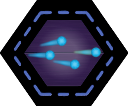
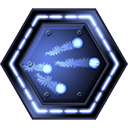
Added in zaks art and changed some archetypes to fit. Havnt changed level events grinders to be right size yet, but most other things are working

diff --git a/Dev/StaticSheepNeoBuildSystem/game/SheepEngine/types/weapons/WShotgun.cpp b/Dev/StaticSheepNeoBuildSystem/game/SheepEngine/types/weapons/WShotgun.cpp
@@ -24,6 +24,7 @@ namespace Framework
     damage = 20;
     knockback = 600;
     semi = true;
+    explosive_ = false;
   }
 
   Shotgun::~Shotgun()
@@ -64,7 +65,13 @@ namespace Framework
         part->direction.m_startMin = rotation * part->direction.m_startMin;
         part->direction.m_startMax = rotation * part->direction.m_startMax;
 
-        bullet->GetComponent<Bullet_Default>(eBullet_Default)->damage = damage;
+        if (explosive_)
+        {
+          bullet->GetComponent<Bullet_Default>(eBullet_Default)->damage = damage + 20;
+          bullet->GetComponent<Bullet_Default>(eBullet_Default)->explosive_ = true;
+        }
+        else
+          bullet->GetComponent<Bullet_Default>(eBullet_Default)->damage = damage;
         BT = bullet->GetComponent<Transform>(eTransform);
         bulletC = bullet->GetComponent <CircleCollider>(eCircleCollider);
         bulletC->SetBodyCollisionGroup(player->archetype);
@@ -79,7 +86,13 @@ namespace Framework
         bullet->GetComponent<ParticleCircleEmitter>(eParticleCircleEmitter)->spawning = false;
         bullet->GetComponent<ParticleCircleEmitter>(eParticleCircleEmitter)->timedSpawning = false;
 
-        bullet->GetComponent<Bullet_Default>(eBullet_Default)->damage = damage;
+        if (explosive_)
+        {
+          bullet->GetComponent<Bullet_Default>(eBullet_Default)->damage = damage + 20;
+          bullet->GetComponent<Bullet_Default>(eBullet_Default)->explosive_ = true;
+        }
+        else
+          bullet->GetComponent<Bullet_Default>(eBullet_Default)->damage = damage;
         BT = bullet->GetComponent<Transform>(eTransform);
         bulletC = bullet->GetComponent <CircleCollider>(eCircleCollider);
         bulletC->SetBodyCollisionGroup(player->archetype);

diff --git a/Dev/StaticSheepNeoBuildSystem/game/SheepEngine/Components/gameplay_scripts/CBullet_default.cpp b/Dev/StaticSheepNeoBuildSystem/game/SheepEngine/Components/gameplay_scripts/CBullet_default.cpp
@@ -17,6 +17,7 @@ namespace Framework
 	{
     damage = 10;
     ttl = 0.375f;
+    explosive_ = false;
 	}
 
 	Bullet_Default::~Bullet_Default()
@@ -41,10 +42,10 @@ namespace Framework
 		space->hooks.Remove("LogicUpdate", self);
 
 	}
-
+  static Transform *bt;
 	void Bullet_Default::LogicUpdate(float dt)
 	{
-    Transform *bt = space->GetHandles().GetAs<Transform>(bTransfrom);
+    bt = space->GetHandles().GetAs<Transform>(bTransfrom);
     bGameObject = space->GetHandles().GetAs<GameObject>(owner);
 
     if (bGameObject->archetype == "Bullet_shot")
@@ -64,6 +65,11 @@ namespace Framework
     GameObject *OtherObject = space->GetHandles().GetAs<GameObject>(otherObject);
     if (OtherObject->name != "Bullet" && OtherObject->name != "WeaponPickup")
     {
+      if (explosive_)
+      {
+        GameObject *temp = (FACTORY->LoadObjectFromArchetype(space, "explosion"));
+        temp->GetComponent<Transform>(eTransform)->SetTranslation(bt->GetTranslation());
+      }
       space->GetGameObject(owner)->Destroy();
     }
 	}

diff --git a/Dev/StaticSheepNeoBuildSystem/game/SheepEngine/types/weapons/WAutomatic.cpp b/Dev/StaticSheepNeoBuildSystem/game/SheepEngine/types/weapons/WAutomatic.cpp
@@ -25,7 +25,7 @@ namespace Framework
     damage = 10;
     knockback = 50;
     semi = false;
-    
+    explosive_ = false;
   }
 
   Automatic::~Automatic()
@@ -40,7 +40,13 @@ namespace Framework
     randomNumber = GetRandom(0, 100);
 
     GameObject *bullet = (FACTORY->LoadObjectFromArchetype(player->space, "Bullet"));
-    bullet->GetComponent<Bullet_Default>(eBullet_Default)->damage = damage;
+    if (explosive_)
+    {
+      bullet->GetComponent<Bullet_Default>(eBullet_Default)->damage = damage + 10;
+      bullet->GetComponent<Bullet_Default>(eBullet_Default)->explosive_ = true;
+    }
+    else
+      bullet->GetComponent<Bullet_Default>(eBullet_Default)->damage = damage;
     bullet->GetComponent<ParticleCircleEmitter>(eParticleCircleEmitter)->spawning = false;
     bullet->GetComponent<ParticleCircleEmitter>(eParticleCircleEmitter)->timedSpawning = true;
     bullet->GetComponent<ParticleCircleEmitter>(eParticleCircleEmitter)->timed = 0.001f;

diff --git a/Dev/StaticSheepNeoBuildSystem/game/SheepEngine/types/weapons/WPistol.cpp b/Dev/StaticSheepNeoBuildSystem/game/SheepEngine/types/weapons/WPistol.cpp
@@ -23,6 +23,7 @@ namespace Framework
     damage = 10;
     knockback = 60;
     semi = true;
+    explosive_ = false;
   }
 
   Pistol::~Pistol()
@@ -34,7 +35,13 @@ namespace Framework
   {
 
     GameObject *bullet = (FACTORY->LoadObjectFromArchetype(player->space, "Bullet"));
-    bullet->GetComponent<Bullet_Default>(eBullet_Default)->damage = damage;
+    if (explosive_)
+    {
+      bullet->GetComponent<Bullet_Default>(eBullet_Default)->damage = damage + 20;
+      bullet->GetComponent<Bullet_Default>(eBullet_Default)->explosive_ = true;
+    }
+    else
+      bullet->GetComponent<Bullet_Default>(eBullet_Default)->damage = damage;
     bullet->GetComponent<ParticleCircleEmitter>(eParticleCircleEmitter)->spawning = false;
     bullet->GetComponent<ParticleCircleEmitter>(eParticleCircleEmitter)->timedSpawning = true;
     bullet->GetComponent<ParticleCircleEmitter>(eParticleCircleEmitter)->timed = 0.001f;

diff --git a/Dev/StaticSheepNeoBuildSystem/game/SheepEngine/Components/gameplay_scripts/CLevel1_Logic.cpp b/Dev/StaticSheepNeoBuildSystem/game/SheepEngine/Components/gameplay_scripts/CLevel1_Logic.cpp
@@ -329,7 +329,7 @@ namespace Framework
 
   void Level1_Logic::SpawnItemSet(Vec3 pos)
   {
-    int drop = GetRandom(0, 9);
+    int drop = GetRandom(0, 11);
     if (drop == 0 || drop == 1)
       SpawnItem("AutoPickup", pos);
     else if (drop == 2 || drop == 3)
@@ -339,7 +339,13 @@ namespace Framework
     else if (drop == 6 || drop == 7)
       SpawnItem("PowerUpPickup_Shield", pos);
     else if (drop == 8 || drop == 9)
+      SpawnItem("PowerUpPickup_Explosive", pos);
+    else if (drop == 10 || drop ==11)
       SpawnItem("CoinPickup", pos);
+    //else if (drop == 12 || drop == 13)
+    //  SpawnItem("CoinPickup", pos);
+
+
     if (mod1 == BONUS || mod2 == BONUS)
       SpawnCoins(pos);
   }

diff --git a/Dev/StaticSheepNeoBuildSystem/game/SheepEngine/Components/gameplay_scripts/CPowerupPickup.cpp b/Dev/StaticSheepNeoBuildSystem/game/SheepEngine/Components/gameplay_scripts/CPowerupPickup.cpp
@@ -21,6 +21,7 @@ namespace Framework
     { eShield, "Shield" },
     { ePower, "DamageBoost" },
     { eCoin, "Coin" },
+    { eExplosive, "Explosive" },
     { eMiniMe, "MiniMe" }
   };
 
@@ -42,6 +43,8 @@ namespace Framework
       powerUpID = ePower;
     else if (powerNum == 2)
       powerUpID = eCoin;
+    else if (powerNum == 3)
+      powerUpID = eExplosive;
 
     if (powerUpID == eNoPowerUp)
     {

diff --git a/Dev/StaticSheepNeoBuildSystem/game/SheepEngine/types/weapons/WBase.h b/Dev/StaticSheepNeoBuildSystem/game/SheepEngine/types/weapons/WBase.h
@@ -21,5 +21,6 @@ namespace Framework
     int damage; //damage caused by weapon
     int knockback; //how much the weapon knocks the player back in zero gravity
     bool semi; //is the weapon semi-auto or automatic
+    bool explosive_;
   };
 }
